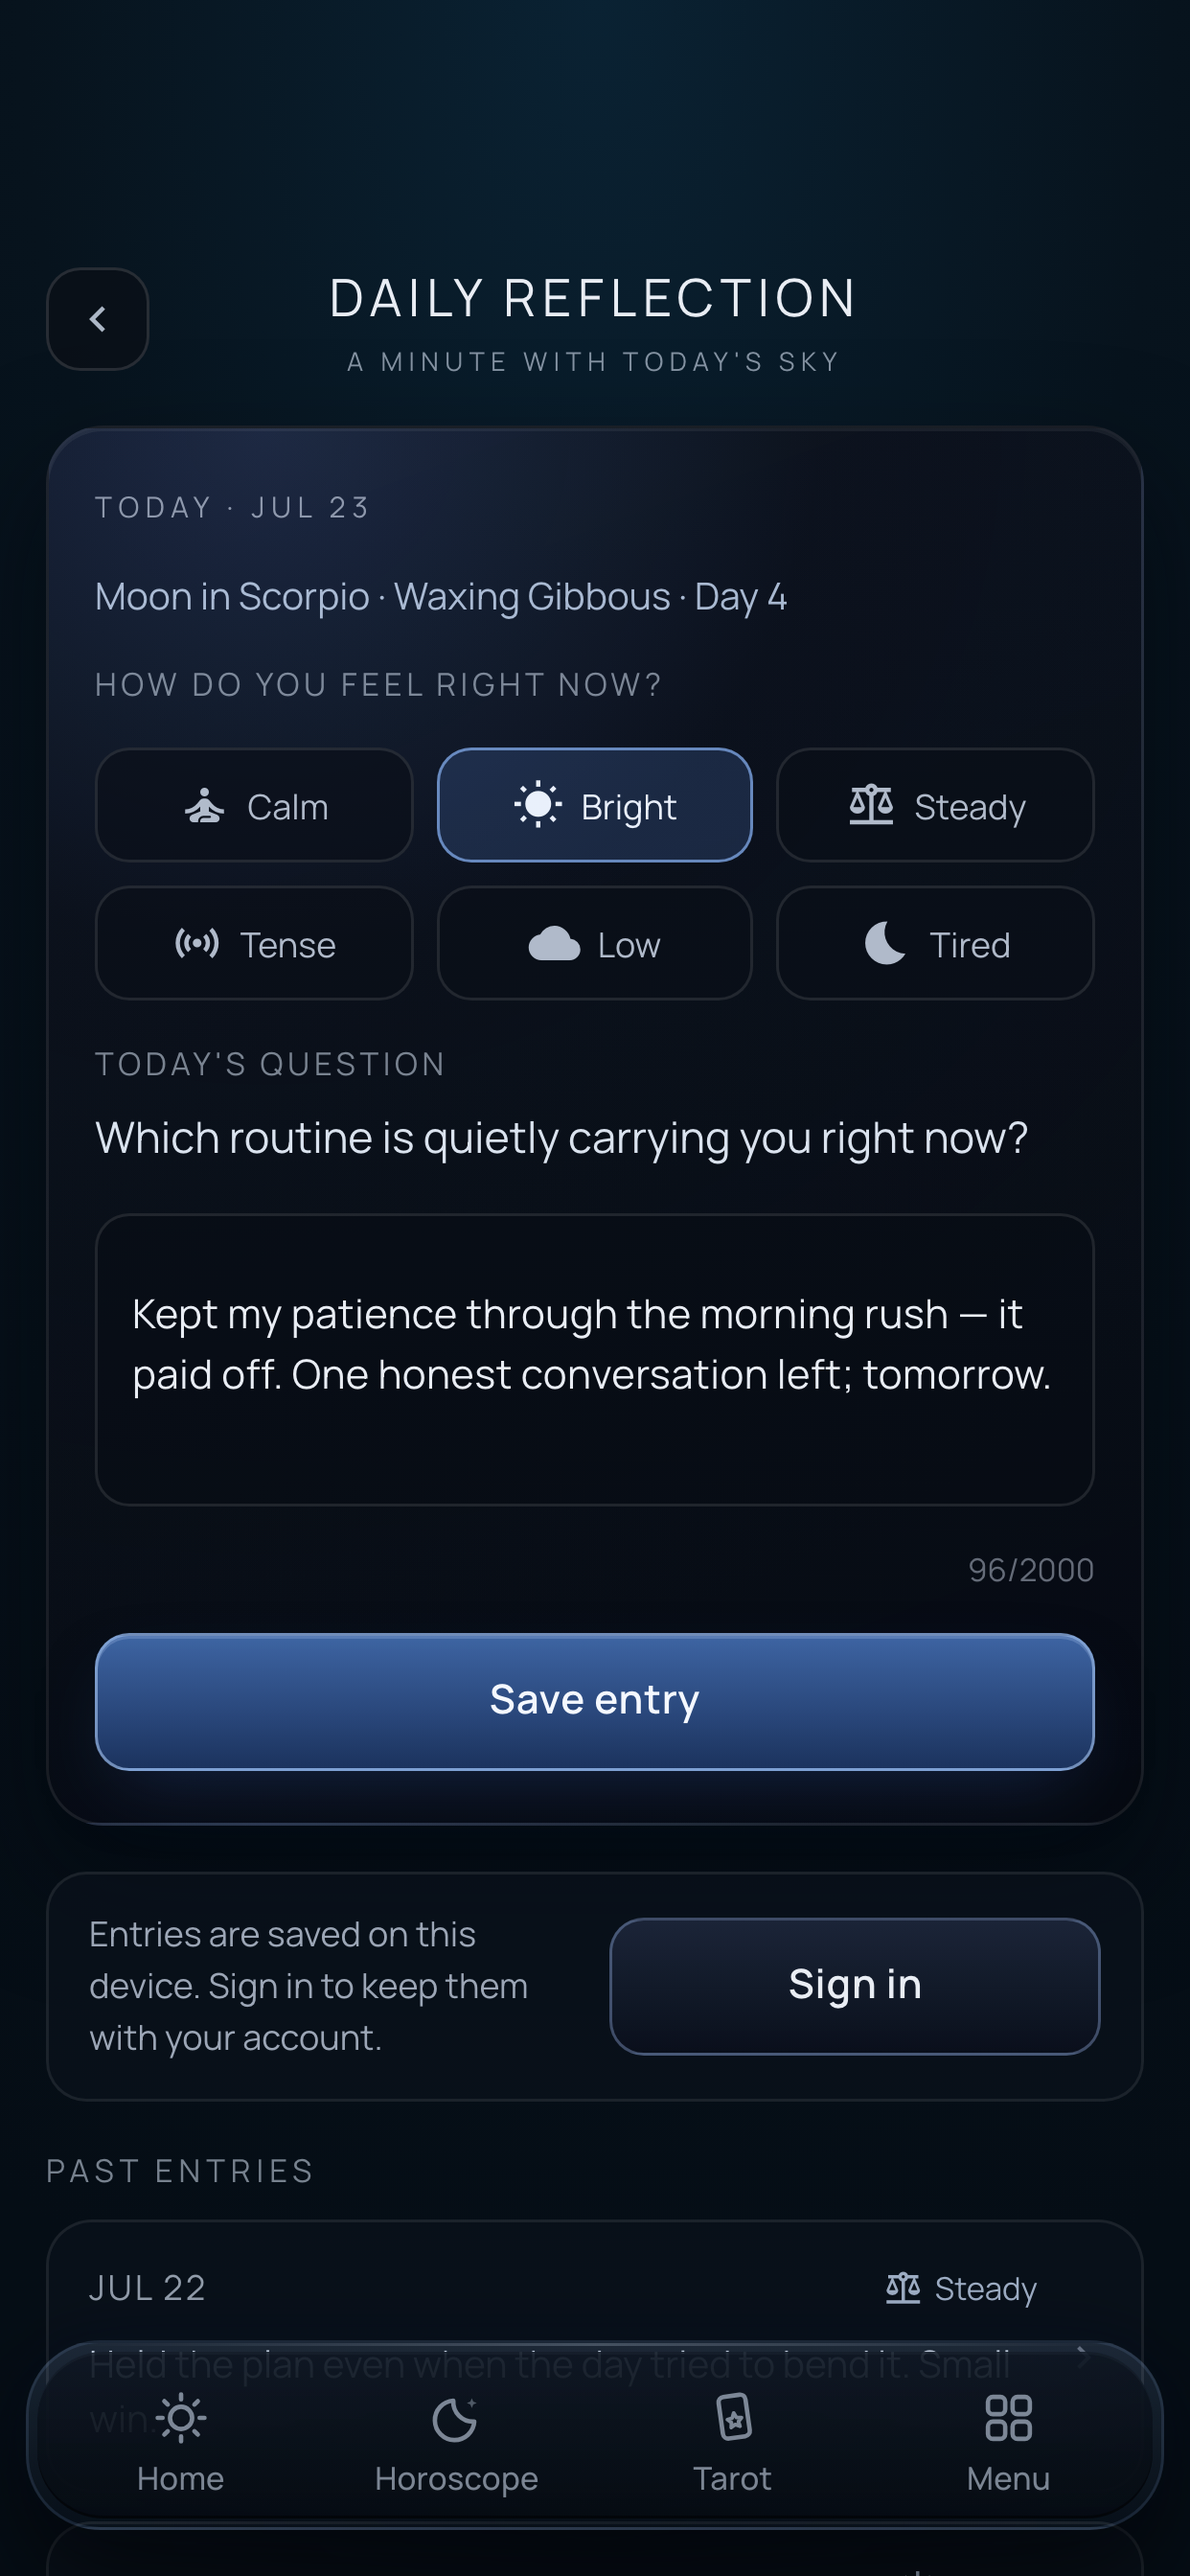
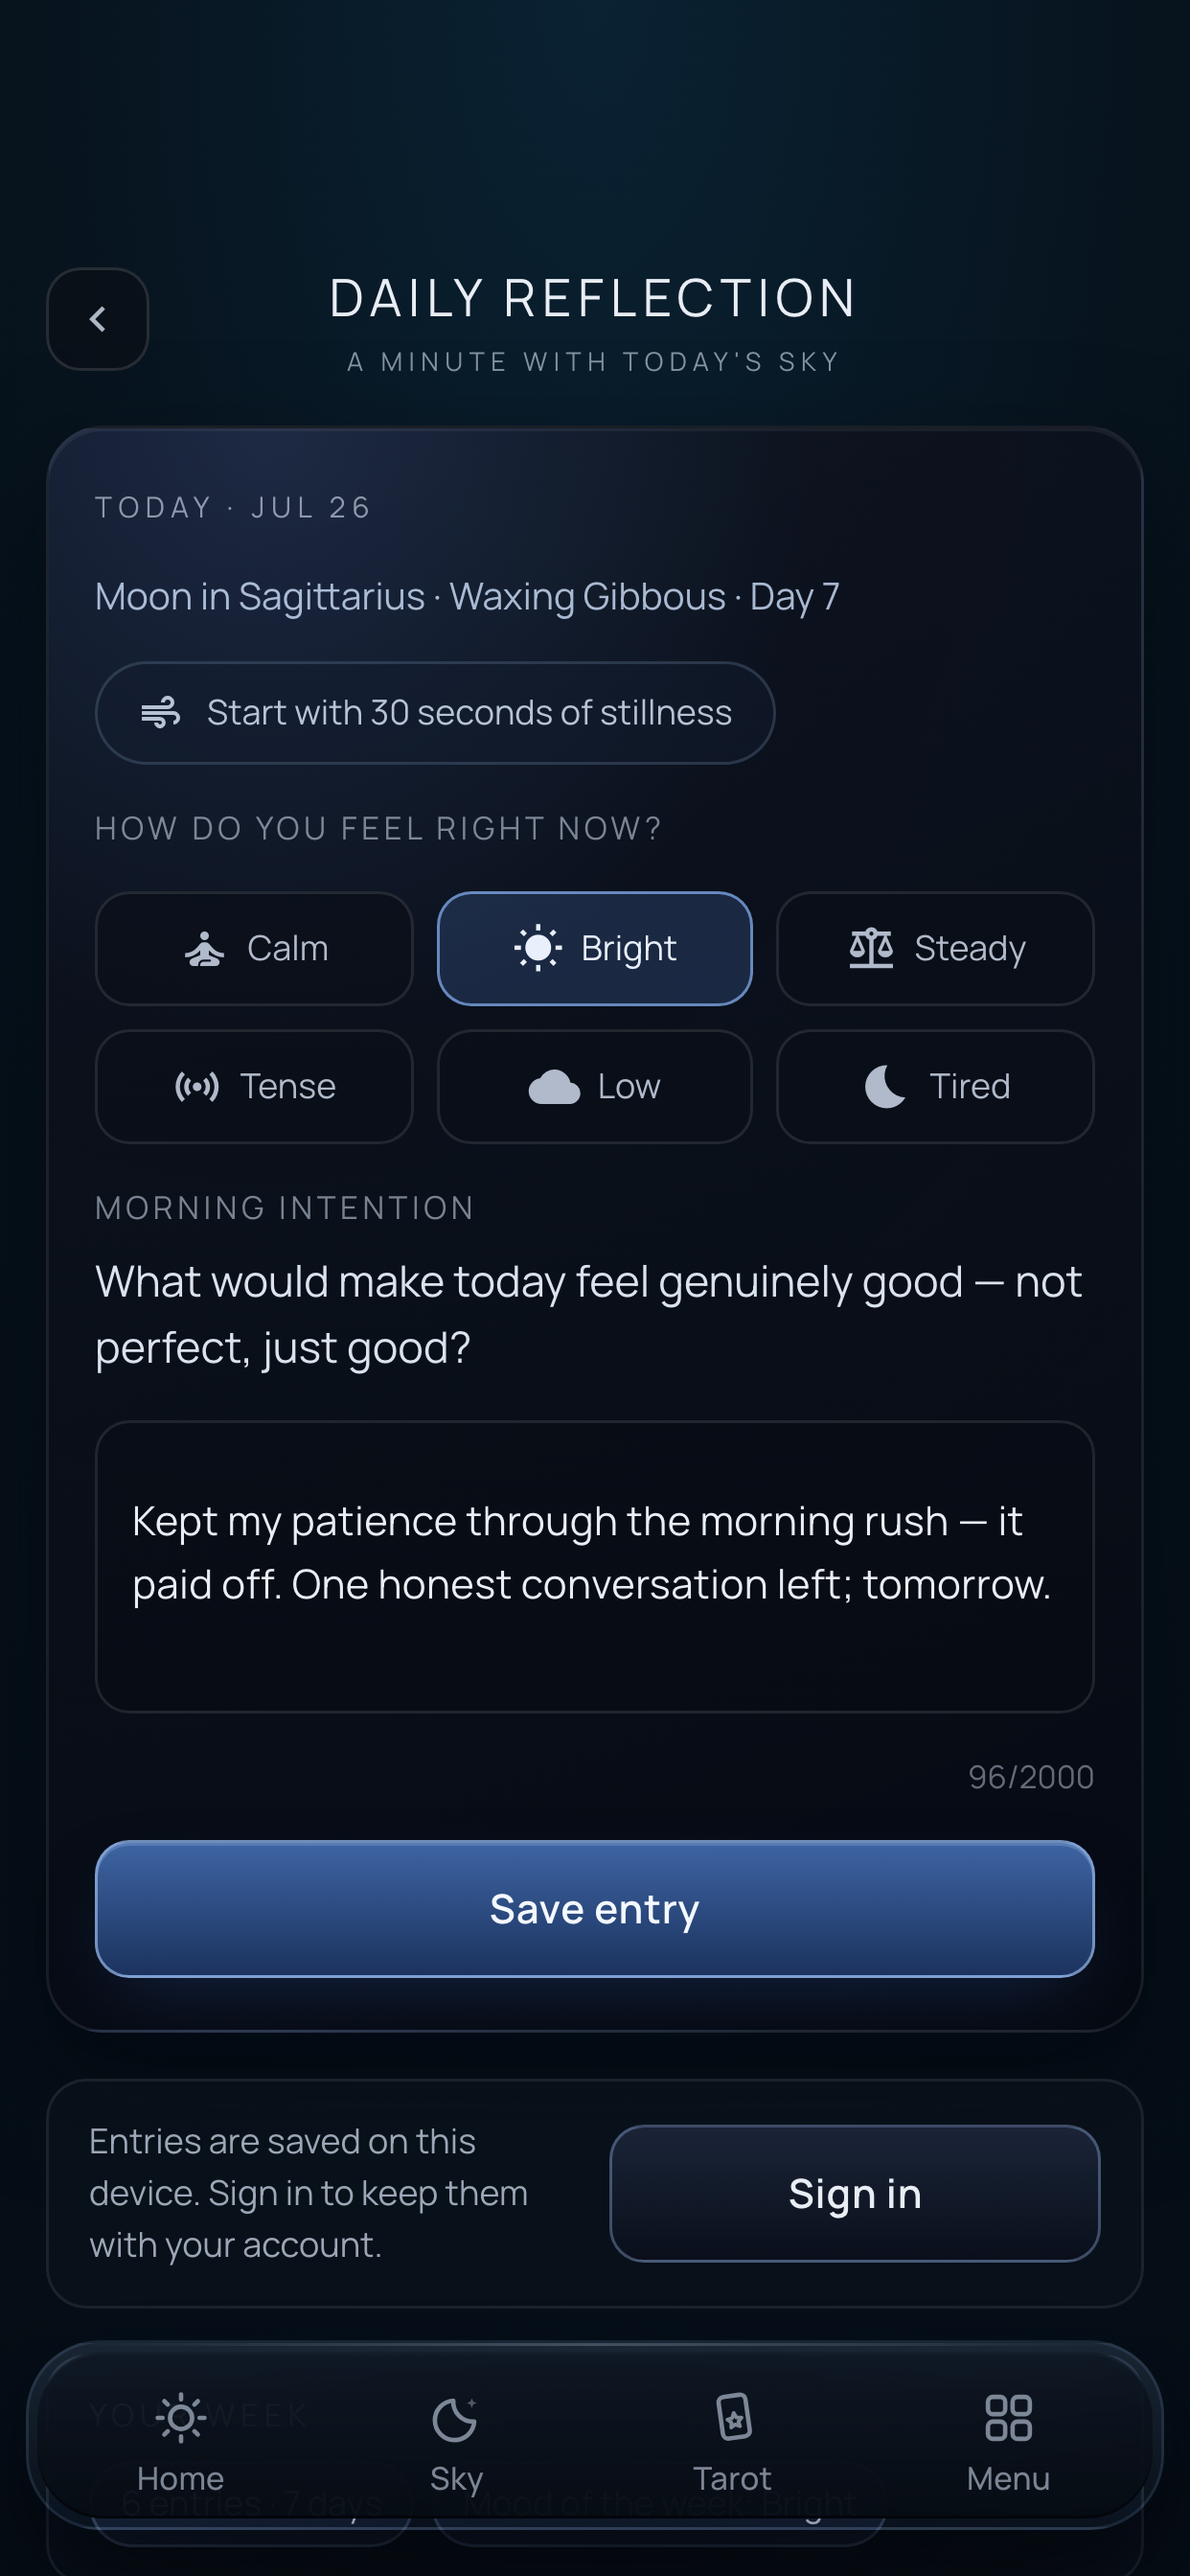
test(appstore): regenerate 10-shot journal-led set (breath frame, Sky tab)
Screenshots re-shot against the current build: adds a dedicated breathing-pause
frame (the 30s stillness circle + week patterns visible), and every frame now
carries the renamed "Sky" tab and "Open sky" / "Today's Sky" copy from the
RP-09 sweep. Order leads with three journal screens (today / breathing /
history) before home and the secondary tarot/horoscope tail. Stale
mis-numbered files from the previous set removed; caption plan in asc-metadata
updated to the 10 shots.

diff --git a/tests/visual/appstore-shots.spec.js b/tests/visual/appstore-shots.spec.js
@@ -80,7 +80,15 @@ async function runJournalToday(page) {
   await page.waitForTimeout(600)
 }
 
-// Journal shot 2: save today's entry so the page shows the done-card plus the
+// Breathing shot: open the 30-second stillness pause and capture the circle
+// mid-inhale (a clean wellness frame for the store).
+async function runJournalBreath(page) {
+  await page.locator('.journal-breath-chip').click().catch(() => {})
+  // ~2s in the circle is scaled up on the inhale phase.
+  await page.waitForTimeout(2200)
+}
+
+// Journal shot: save today's entry so the page shows the done-card plus the
 // seeded week of history below (varied moods) — "it builds into a journal".
 async function runJournalHistory(page) {
   const form = await page.$('.journal-input textarea')
@@ -96,19 +104,20 @@ async function runJournalHistory(page) {
 const SCREENS = [
   // RP-06: the reflection ritual leads; tarot moved to the tail of the set.
   { name: '1-journal-today', path: '/#/journal', wait: 2600, run: runJournalToday },
-  { name: '2-journal-history', path: '/?shot=history#/journal', wait: 2600, run: runJournalHistory },
-  { name: '3-home', path: '/?qa=home&view=revealed&locale=en', wait: 2000 },
-  { name: '4-daily-card', path: '/#/daily', wait: 3500 },
-  { name: '5-horoscope', path: '/#/horoscope', wait: 3000 },
+  { name: '2-journal-breath', path: '/#/journal', wait: 2600, run: runJournalBreath },
+  { name: '3-journal-history', path: '/?shot=history#/journal', wait: 2600, run: runJournalHistory },
+  { name: '4-home', path: '/?qa=home&view=revealed&locale=en', wait: 2000 },
+  { name: '5-daily-card', path: '/#/daily', wait: 3500 },
+  { name: '6-horoscope', path: '/#/horoscope', wait: 3000 },
   // ?qa=compat (before the hash) seeds two birth dates + reveals the local
   // result — the DOB wheel picker can't be clicked through deterministically.
-  { name: '6-compatibility', path: '/?qa=compat#/compatibility', wait: 4500 },
+  { name: '7-compatibility', path: '/?qa=compat#/compatibility', wait: 4500 },
   // Oracle scene driven to a revealed 3-card spread (see runTarotFlow).
-  { name: '7-tarot', path: '/#/tarot', wait: 9800, run: runTarotFlow },
-  { name: '8-card-library', path: '/#/cards', wait: 2500 },
+  { name: '8-tarot', path: '/#/tarot', wait: 9800, run: runTarotFlow },
+  { name: '9-card-library', path: '/#/cards', wait: 2500 },
   // ?qa=premium (before the hash) seeds real App Store prices — without it the
   // web build renders "Purchases are unavailable" + empty price tiles.
-  { name: '9-premium', path: '/?qa=premium#/premium', wait: 1800 },
+  { name: '10-premium', path: '/?qa=premium#/premium', wait: 1800 },
 ]
 
 test('app store screenshots', async ({ browser }) => {

diff --git a/app-store/asc-metadata.md b/app-store/asc-metadata.md
@@ -146,15 +146,17 @@ Everything in Premium, billed once a year
 
 ---
 
-## Screenshot captions (optional, per screen)
-> RP-06: the FIRST THREE shots must show the reflection ritual; tarot moves to the tail.
-1. Journal (today flow) — "One honest minute a day"
-2. Journal (sky + question) — "A question from today's real sky"
-3. Home — "Your calm daily ritual"
-4. Card of the day — "Go deeper when you want to"
-5. Horoscope — "Daily energy, love & career"
-6. Compatibility — "See how two charts meet"
-7. Premium — "The full practice, unlocked"
+## Screenshot captions (per screen, 10-shot set — reflection ritual leads)
+1. Journal today — "One honest minute a day"
+2. Journal breathing — "Start with 30 seconds of stillness"
+3. Journal history — "It builds into a private journal"
+4. Home — "Your calm daily ritual"
+5. Card of the day — "Go deeper when you want to"
+6. Sky (daily reading) — "Today's sky, for your sign"
+7. Compatibility — "See how two charts meet"
+8. Tarot — "Ask the oracle, when you want to"
+9. Card library — "All 78 cards, upright & reversed"
+10. Premium — "The full practice, unlocked"
 
 ---
 
